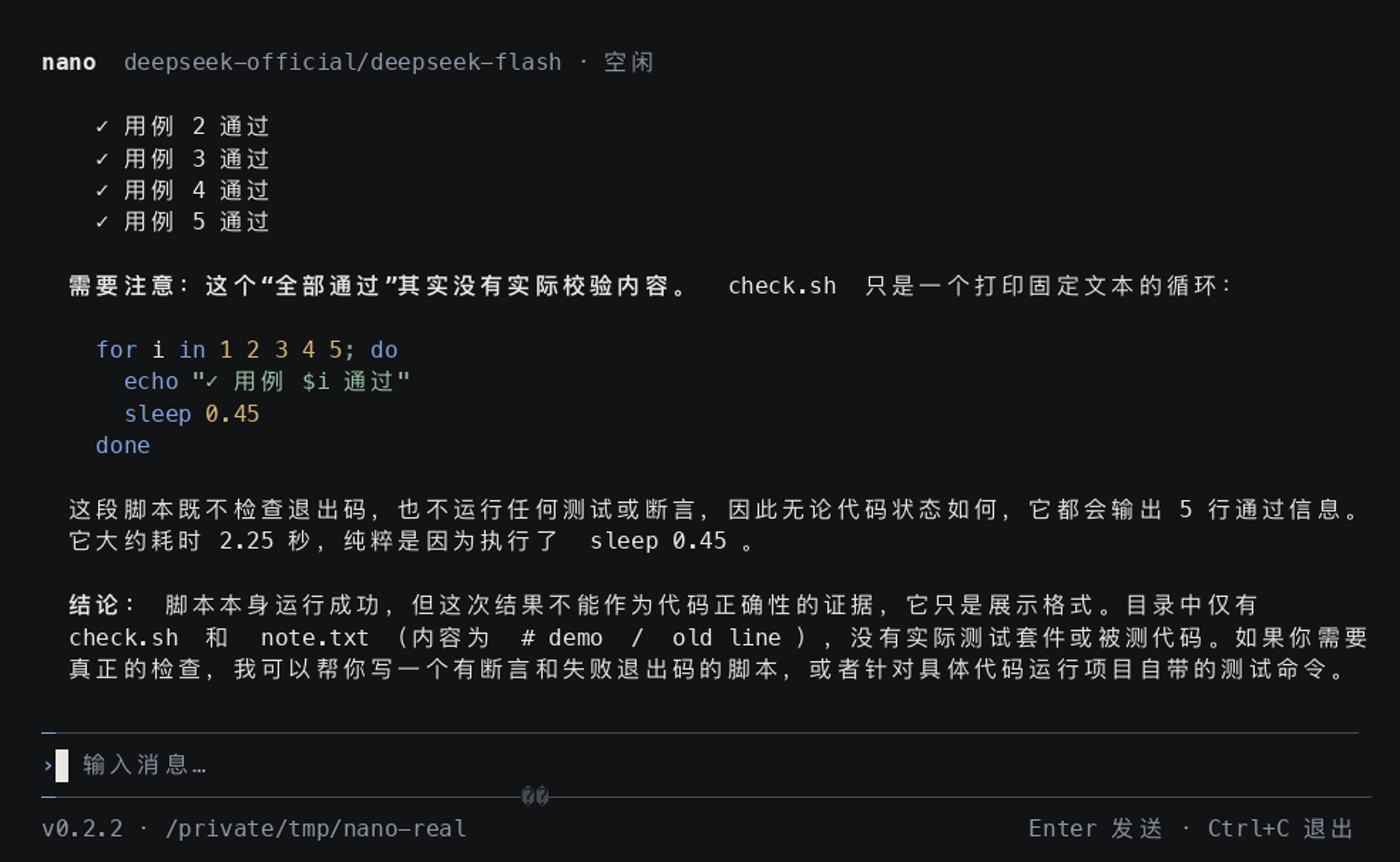
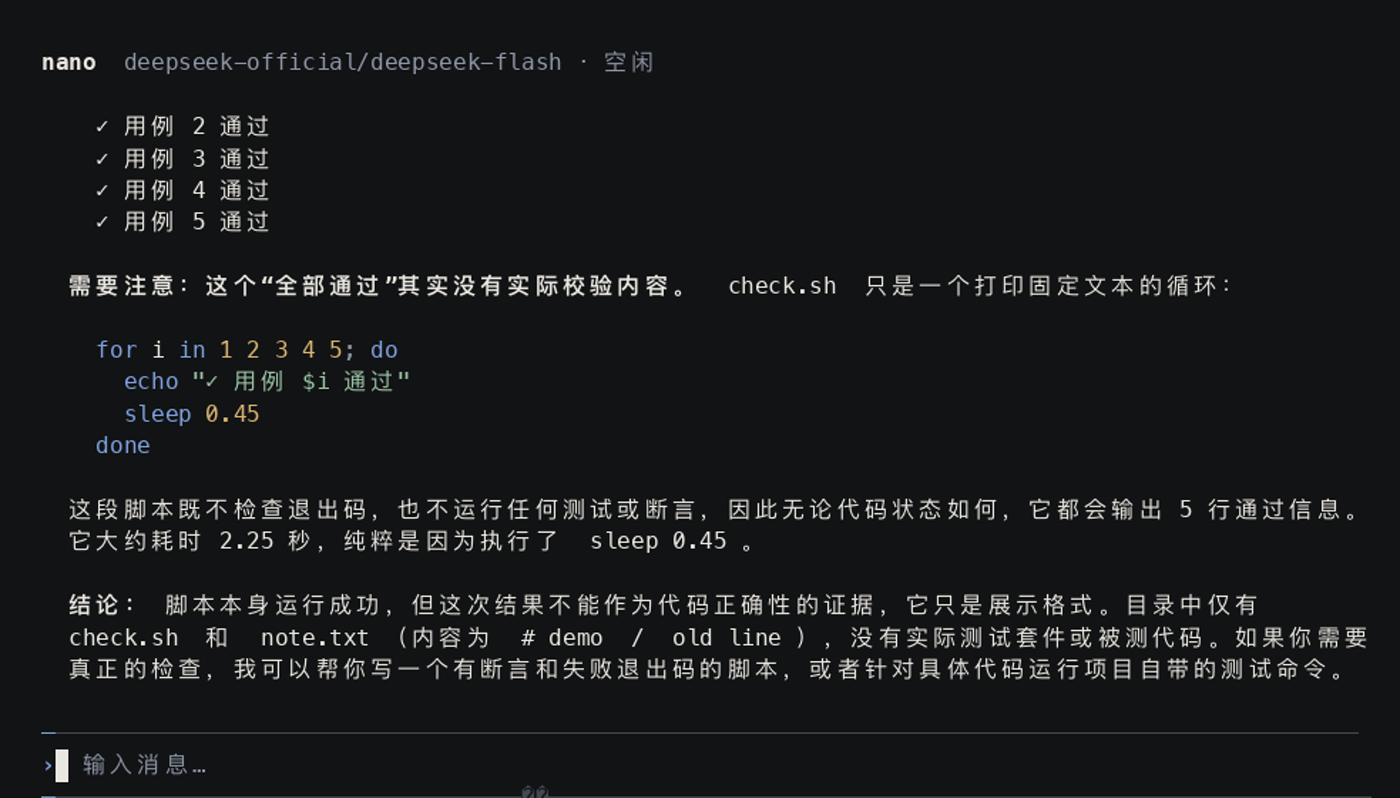
docs: 处置 PR #163 轻审发现
- 安装段改用 npm pack 产物：registry 未发布，原命令必然 E404
- 中文卸载块补回最后一步 npm uninstall（英文与基线都有）
- Bash 五行限定为「前台、未展开、成功」；⏺ 标注补上助手正文
- 中文补回 --root 说明；docs/media 行去掉未纳入本 PR 的动效素材
- Yoga 外链换成 yogalayout.com
- 两张截图裁掉底栏临时路径，并注明顶栏与面板的模型命名关系

diff --git a/README.md b/README.md
@@ -27,11 +27,11 @@
 
 ## 它长什么样
 
-流式思考和执行过程留在转录里：`❯` 用户、`∴` 思考、`⏺` 工具、`⎿` 结果，四类各有自己的标记和强调级别。Bash 运行中显示最后五行输出，跑完不撤回。
+流式思考和执行过程留在转录里：`❯` 用户、`∴` 思考、`⏺` 助手正文与工具行、`⎿` 结果，四类各有自己的标记和强调级别。前台 Bash 运行中显示最后五行输出；未展开且成功时，这五行留在转录里。
 
 ![模型与推理强度面板](docs/media/readme/model-panel.png)
 
-`/model` 换模型和推理强度；切换完成的状态行会给回执（`已选择 deepseek-flash · Max。`）。
+`/model` 换模型和推理强度；切换完成的状态行会给回执（`已选择 deepseek-flash · Max。`）。顶栏写 provider/model id，面板里用显示名，两者是同一个模型。
 
 ![一轮完整回答](docs/media/readme/answer.png)
 
@@ -49,8 +49,10 @@
 ## 快速开始
 
 ```sh
-# 安装 / 升级
-npm install -g dsh-tui-nano
+# 安装 / 升级：registry 尚未发布，先打包再装产物
+npm pack
+npm install -g ./dsh-tui-nano-0.2.2.tgz
+# registry 发布后改回：npm install -g dsh-tui-nano
 
 # 启动：新会话
 nano
@@ -79,6 +81,7 @@ npm uninstall -g dsh-tui-nano
 # 连数据一起删：先 purge（bin 仍在时），再卸载
 nano purge          # 交互确认
 nano purge --yes    # 非交互环境跳过确认
+npm uninstall -g dsh-tui-nano
 ```
 
 普通卸载**保留**数据根与 profile；只有 `nano purge` 会删除 profile、会话、运行时数据与历史。`nano purge` 不依赖 npm 的生命周期脚本（npm v7 起不保证 uninstall 脚本运行），所以顺序必须是「先 purge、后卸载」。首次启动自动初始化应用 profile；升级时逐文件校验，损坏先备份再报错，不覆盖用户 settings。
@@ -122,7 +125,7 @@ nano purge --yes    # 非交互环境跳过确认
 
 </details>
 
-完整键位与参数见 `nano --help`。
+完整键位与参数见 `nano --help`；`nano --root <id>` 指定会话身份（不存在则新建）。
 
 `!command` 以你的用户权限运行，不是 Agent 授权；输出会作为合成上下文注入，但不唤醒模型。
 
@@ -174,7 +177,7 @@ Ghostty
 | `packaging/` | npm 发布与安装说明（仓库内只保留 npm 一条安装路径） |
 | `docs/specs/` | 规格与验收标准 |
 | `docs/release/` | 发布验收、证据与已知限制 |
-| `docs/media/` | README 截图与发布动效素材 |
+| `docs/media/` | README 截图 |
 
 ## 当前状态
 
@@ -214,5 +217,5 @@ MIT，全文见 [`LICENSE`](LICENSE)。
 ## 致谢
 
 - [DeepSeek Harness](https://github.com/deepseek-ai/deepseek-harness)：Agent、模型、工具、会话与持久化。
-- [React](https://react.dev/) / [react-reconciler](https://www.npmjs.com/package/react-reconciler) / [Yoga](https://www.yogajavascript.com/)：UI 树与布局。
+- [React](https://react.dev/) / [react-reconciler](https://www.npmjs.com/package/react-reconciler) / [Yoga](https://www.yogalayout.com/)：UI 树与布局。
 - 设计样稿与真实终端证据的贡献者。

diff --git a/README.en.md b/README.en.md
@@ -27,11 +27,11 @@ Three principles: **reading first, little decoration, never invent facts**. Sess
 
 ## What it looks like
 
-Streaming reasoning and execution stay in the transcript. Four marks carry the reading order — `❯` you, `∴` thinking, `⏺` tools, `⎿` results — each with its own emphasis. A running Bash call shows its last five output lines and does not retract them when it finishes.
+Streaming reasoning and execution stay in the transcript. Four marks carry the reading order — `❯` you, `∴` thinking, `⏺` assistant text and tool rows, `⎿` results — each with its own emphasis. A foreground Bash call shows its last five output lines while running; when collapsed and successful, those lines stay in the transcript.
 
 ![Model and reasoning-effort panel](docs/media/readme/model-panel.png)
 
-`/model` switches model and reasoning effort; the status line gives a receipt (`已选择 deepseek-flash · Max。`).
+`/model` switches model and reasoning effort; the status line gives a receipt (`已选择 deepseek-flash · Max。`). The header shows the provider/model id while the panel uses the display name — same model.
 
 ![A full turn](docs/media/readme/answer.png)
 
@@ -49,8 +49,10 @@ Answers render as Markdown: code blocks, tables and long paragraphs stay structu
 ## Quick start
 
 ```sh
-# install / upgrade
-npm install -g dsh-tui-nano
+# install / upgrade: not on the registry yet — pack, then install the tarball
+npm pack
+npm install -g ./dsh-tui-nano-0.2.2.tgz
+# once published: npm install -g dsh-tui-nano
 
 # start a new session
 nano
@@ -173,7 +175,7 @@ Ghostty
 | `packaging/` | npm publishing and install notes (npm is the only install path in the repo) |
 | `docs/specs/` | specs and acceptance criteria |
 | `docs/release/` | release acceptance, evidence and known limitations |
-| `docs/media/` | README screenshots and release motion assets |
+| `docs/media/` | README screenshots |
 
 ## Status
 
@@ -213,5 +215,5 @@ MIT. See [`LICENSE`](LICENSE).
 ## Acknowledgements
 
 - [DeepSeek Harness](https://github.com/deepseek-ai/deepseek-harness): agent, models, tools, sessions and persistence.
-- [React](https://react.dev/) / [react-reconciler](https://www.npmjs.com/package/react-reconciler) / [Yoga](https://www.yogajavascript.com/): UI tree and layout.
+- [React](https://react.dev/) / [react-reconciler](https://www.npmjs.com/package/react-reconciler) / [Yoga](https://www.yogalayout.com/): UI tree and layout.
 - Contributors of design mockups and real terminal evidence.
